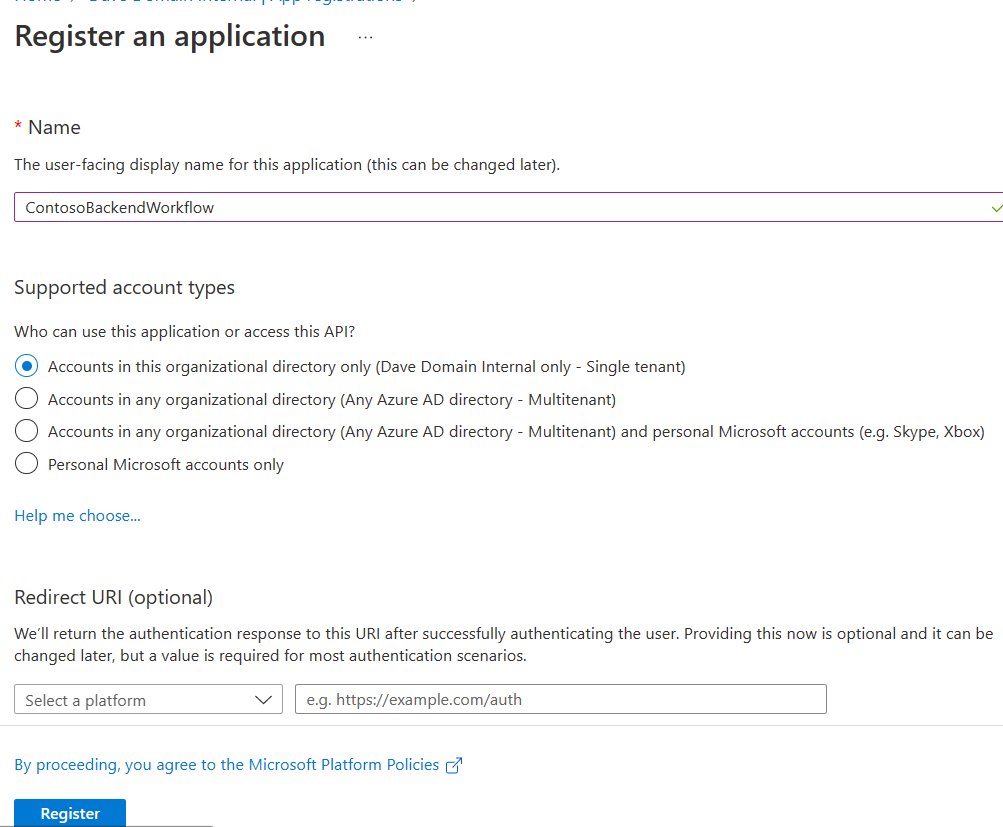
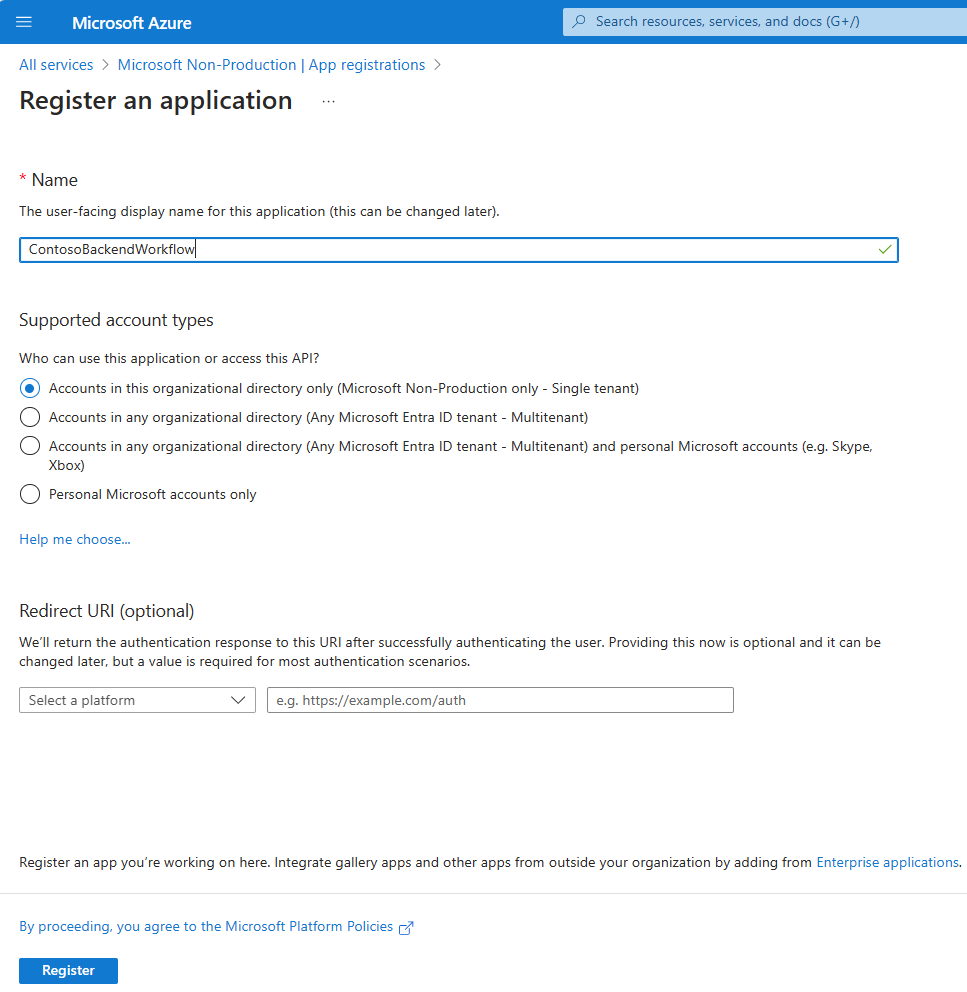
update

diff --git a/Protecting Azure Logic Apps Standard with OAUTH.md b/Protecting Azure Logic Apps Standard with OAUTH.md
@@ -1,77 +1,360 @@
-# Protecting Azure Logic Apps Standard with OAUTH
+# ProteDeep Dive on Protecting Azure Logic Apps Standard with Microsoft Entra ID (OAUTH) and calling from Azure API Management
 
-## Summary
+## Summary 
 
-Protecting services with OAUTH is commonplace across Azure, with out of the box support for services such as Azure Logic Apps, Azure Functions, Azure App Service and Azure API Management.  The Consumption tier of Logic Apps has had OAUTH on HTTP requests for a while now (see [Logic Apps Authorisation](https://learn.microsoft.com/en-us/azure/logic-apps/logic-apps-securing-a-logic-app?tabs=azure-portal#enable-oauth)), and a similar feature is now available in the Standard tier of Logic Apps.
+Protecting services with Microsoft Entra ID (OAUTH) is commonplace across Azure, with out of the box support for services such as Azure Logic Apps, Azure Functions, Azure App Service and Azure API Management.  The Consumption tier of Logic Apps has had OAUTH for HTTP requests for a while now (see [Logic Apps Authorisation](https://learn.microsoft.com/en-us/azure/logic-apps/logic-apps-securing-a-logic-app?tabs=azure-portal#enable-oauth)), and a similar feature is now available in the Standard tier of Logic Apps.
 
-Logic Apps Standard is built on top of Azure Functions, so has access to the Easy Auth feature available to both Azure Functions and Azure App Service. At the time of writing the portal experience isn't avaialble, but can be enabled through the REST API. This blog builds on the article published [here](https://techcommunity.microsoft.com/t5/integrations-on-azure-blog/trigger-workflows-in-standard-logic-apps-with-easy-auth/ba-p/3207378#:~:text=Sometimes%20called%20%22Easy%20Auth%22%2C,workflow%20invocations%20possible%20through%20triggers.)
+Logic Apps Standard is built on top of Azure Functions, so has access to the *Easy Auth* feature available to both Azure Functions and Azure App Service. At the time of writing the portal experience isn't avaialble, but can be enabled through the REST API. This blog builds on the article published [here](https://techcommunity.microsoft.com/t5/integrations-on-azure-blog/trigger-workflows-in-standard-logic-apps-with-easy-auth/ba-p/3207378#:~:text=Sometimes%20called%20%22Easy%20Auth%22%2C,workflow%20invocations%20possible%20through%20triggers.)
 
 ## Scenarios
 
-We will cover two examples where we protect the Logic App workflow with Azure AD and authorise based on audience and role:
+We will cover three ways we can authorise a client from a Logic App:
 
-* Call the Logic App from Postman where we fetch a  token from Azure AD with a client id and secret
-* Call the Logic App from Azure API Management using Managed Identity
+* Authorise based on *audience* contained in the JWT
+* Authorise based on *audience* and the unique identifier (Application ID) of the client contained in the JWT
+* Authorise based on *audience* and *roles* (part of the JWT) assigned to the calling application
 
-We will also show how to check for specific roles within the Logic App, allowing for different workflows to have different authorisation rules within the same Logic App.
+We will talk through these scenarios in detail in later sections. We will also test our Microsoft Entra ID protected Logic App in two ways:
 
-## Azure AD Configuration
+* Call the Logic App from Postman where we fetch a  token from Microsoft Entra ID with a Application ID and secret
+* Call the Logic App from Azure API Management using *Managed Identity*
 
-The security context in Azure AD is configured through an App Registration. There is one App Registration required
-to represent the Logic App workflow (the service), then we will create additional App Registration(s) to represent clients that want to call the workflow. We create roles on the service app registration that can be used to assign to a client (whether managed identity or client id/secret). Easy Auth will be configured to check the audience, then the workflow can make further checks against roles or scopes.
+# Logic App Microsoft Entra ID Configuration
 
-Create Logic App Application Registration
+To enable OAUTH, the first thing we need to do is configure an *Application Registration* in Microsoft Entra ID. The Application Registration is the security context in Microsoft Entra ID that represents the Logic App (the service). We will then create additional App Registrations or Managed Identities to represent clients we will use to obtain access tokens to to call the Logic App workflow.
+
+## Create Logic App Application Registration
+
+As shown in the screenshot below, create a new Application Registration, provide a name but leave everything else as default. In our case, the App Registration is called "ContosoBackendWorkflow":
 
 ![Register Application
 ](Register%20Backend%20App%20Registration%20for%20Logic%20App.png)
 
-Each Application Registration has an Application ID Uri, which by default is a GUID value. It's best to change this to something more meaningful so when validating the JWT it will be clear on the permission being checked. To set the Application ID Uri click on Application ID Uri on the overview page of the Application Registration:
+## Configure Application ID Uri
+Each Application Registration has an *Application ID Uri*, which by default is a GUID value. This value becomes the *audience* in the JWT token. It's best to change this to something more meaningful so when validating the JWT it will be clear on the permission being checked. There are strict rules on the value of *Application ID Uri*, for example if you use a domain it must be verified. See [this link](https://learn.microsoft.com/en-us/entra/identity-platform/security-best-practices-for-app-registration#application-id-uri) for more details. To set the Application ID Uri click on Application ID Uri on the overview page of the Application Registration:
 ![Set Application ID Uri](Application%20ID%20URI.png)
 
-Configure the Application ID Uri to something meaningful, bearing in mind there are strict rules on what this value can be, for example if you use a domain it must be one you own and configured within Azure AD.
+
 
 ![Application ID Uri](Application%20ID%20URI%20Set.png)
 
-## Create Application Roles
 
-We will create a role within the Application Registration, in this case a role to allow a client application to read Contoso orders. First, navigate to Roles, then click on Create App Role, as follows:
+
+## Logic App Configuration
+
+We now need to create a Logic App in the Standard tier, configure Easy Auth, then validate the *audience*.
+
+Although we can run and test Logic Apps locally using Visual Studio Code, we will create the Logic App in Azure. Create a simple HTTP request/response Standard tier Logic App workflow, details on how to do this can be found [here](https://learn.microsoft.com/en-us/azure/logic-apps/create-single-tenant-workflows-azure-portal).
+
+Once the Logic App has been created, configure Easy Auth for the Logic App. At the time of writing there is no support in the Azure Portal for this, but we can use the Azure Management REST API or Bicep. We will be using the REST API.
+
+A sample payload we can use as a template can be found [here](<Logic App OAUTH Config.json>). Edit the file locally, substituing the following values:
+
+| Name | Description |
+| -----| ------------|
+| {{subscription_id}} | subscription identifier where the Logic App is deployed |
+| {{resource_group_name}} | resource group where the Logic App is deployed |
+| {{logic_app_name}} | name of the Logic App where the Easy Auth config is to be applied |
+| {{region}} | region where the Logic App is deployed |
+| {{tenantid}} | tenant id (visible on the overview page of Microsoft Entra ID) where the logic App is deployed |
+| {{issuerUrl}} | https://login.microsoftonline.com/{your tenant id}/v2.0 |
+| {{la_client_id}} | the Application ID of Application Registration created that represents the Logic App|
+| {{la_audience}} | the audience of the Application Registration (i.e., the Application Id URI)
+||
+
+
+Once the file has been saved we need to use the Azure CLI to deploy the changes. Azure CLI can be used in a variety of ways, including from Visual Studio, Visual Studio Code and the Azure Portal CLI. We will use Visual Studio.
+
+Open Visual Studio and start a new Terminal by selecting *Terminal* from the *View* menu.
+
+When the terminal has loaded, login to Azure typing *az login* and enter your Azure credentials. Enter the following command, substituting with your values as described above.
+
+*az rest* is a command that is part of the Azure CLI, that once logged in, will automatically add the authorization header making it easier to call the Azure Management API to manage Azure Services.
+
+```
+az rest --method put --uri https://management.azure.com/subscriptions/{{subscription_id}}/resourcegroups/{{resource_group_name}}/providers/Microsoft.Web/sites/{{logic_app_name}}/config/authsettingsV2?api-version=2021-02-01 --body '@Logic App OAUTH Config.json'
+```
+
+### Validate Security Configuration with PostMan
+
+To show the Logic App is now protected with Microsoft Entra Id, test the workflow in Azure by calling it through PostMan. 
+
+Create a new API request in PostMan called "Call Logic App", paste in the HTTP trigger URL (obtained from the overview page of the Logic App workflow created earlier) and press *Send*.
+
+The call should fail with a security error as we have not yet obtained a token from Microsoft Entra Id to pass to the workflow.
+
+### Test Locally using Microsoft Entra Id with PostMan
+In order to test the workflow, we need to pass a valid token we have obtained from Microsoft Entra ID. We then pass this to the workflow as an HTTP header when we test from PostMan.
+
+Create another App Registration called "Contoso Sales Client". We will use this App Registration represent a test client to call the workflow. Create as single tenant and **make a note of the Application (client) ID on the Overview page as it will be required later**. "Application ID" and "Application ID" are the same thing and can be used interchangeably.
+
+Click the *Certificates & Secrets* link, and click *New Client Secret* where a secret can be created. **Make a note of the secret as it is only displayed once and will be required later**.
+
+![Client Secret](<Client - secret.png>)
+
+### Test Obtaining a Token with PostMan
+
+To obtain a token from PostMan, create a new API Request based on an HTTP POST called "Get Logic App Token", and set the following in an *x-www-form-urlencoded* body: 
+
+Note, Postman has a feature called *Environments*, which allow variables to be configured and referenced in API requests. Variables are referenced by using double brace notation, for example {{tenant_id}}. Either create a new environment and configure the values below, or enter the real values into the API call. It's generally best practice to use environments as they can be re-used across more than one API call.
+
+Postman has a feature to automate fetching a token, available in the Authorization tab. We are not using that here, rather we are setting the values in the HTTP request to demonstrate the mechanics of the authorisation request.
+
+- Set the URL to *https://login.microsoftonline.com/{{tenantid}}/oauth2/v2.0/token* by changing **{{tenantid}}** to the ID of your tenant. This can be found by navigating to Microsoft Entra Id and clicking the **Overview** page and copying **Tenant ID**:
+
+- client_id - this is the Application ID copied from the Test Client Application Registration just created
+- client_secret - this is the secret created earlier from the Test Client Application Registration just created
+- grant_type - this is set to *client_credentials* and represents the OAUTH2 flow for one system talking to another (i.e., no user present) 
+- scope - this is Application ID URI created in the Logic App App Registration with **/.default** appended. For example, https://yourtenant.onmicrosoft.com/contoso/app/backend/.default
+
+For example:
+
+![Postman Get Token](<Postman - Get Token.png>)
+
+
+
+Click **Send** and the token should be returned:
+
+The token is encoded, so the easiest way to view it is to open a browser and navigate to [https://jwt.ms](https://jwt.ms), then paste the token content (i.e., the access_token part of the response) into the website. The token should then be decoded showing all the claims in the JWT. Note the **audience** which is the value configured against the Logic App App Registration (ContosoBackendWorkflow). Also note the **appid** which is the Application ID of the *client* App Registration.
+
+The *audience* value in the JWT will be checked at runtime by the EasyAuth configuration we created earlier. Only if the client has a token with this specific audience will the request be allowed.
+
+### Test the Logic App from PostMan using a Microsoft Entra Id Token
+
+The next step is to test Logic App workflow by passing a valid JWT token to the Logic App. We can do this from PostMan in one of two ways:
+- copy the access token returned above and paste it into the Authorization HTTP header
+- update the PostMan call where the token is retrieved to automatically update a variable to negate the need to copy and paste
+
+We will use the second option. Navigate to the PostMan API request called "Get Logic App Token", then click on the *Tests* tab and enter the following code:
+
+```
+    var json = JSON.parse(responseBody);
+    postman.setEnvironmentVariable("la_bearer", "Bearer " + json.access_token);
+```
+This will update a variable called *la_bearer* with the access token allowing us to then reference it when calling the Logic App. The token has a lifetime, so after a period of time it will expire and a new token will need to be retrieved.
+
+Next, navigate to the API request called "Call Logic App", then to *Headers* and add a header called "Authorization" with a value of "{{la_bearer}}", for example:
+
+![Call Logic App](<Postman - Call Logic App.png>)
+
+Click *Send* and the Logic App should return with a 200 OK response, indicating the token is valid and has the correct audience. If the call fails, check the token in https://jwt.ms to ensure the token is present. Also make sure the Logic App Easy Auth configuration is checking for the same audience.
+
+## How to Authorise Clients
+As mentioned at the start, there are three ways we can authorise clients:
+
+* Authorise based on *audience* contained in the JWT
+* Authorise based on *audience* and the unique identifier (Application ID) of the client contained in the JWT
+* Authorise based on *audience* and *roles* (part of the JWT) assigned to the calling application
+
+So far, we have implemented the first option - to authorise based on the *audience*. You may be wondering what's to stop *anyone* from creating a JWT token such as the one returned from Microsoft Entra Id and just passing it to the Logic App. When a token is returned from Microsoft Entra Id it is *digitally signed* by Microsoft Entra Id using a private certificate that only Microsoft Entra Id has. The first step the authorisation framework takes is to validate the signature of the JWT token using the Microsoft Entra Id public key. This allows the runtime to verify the token hasn't been tampered with or created with a different key.
+
+### Authorise based on the unique identifier (Application ID)
+By default however, *any* client within the tenant is able to request a token from Microsoft Entra ID. While this may be the desired behaviour, a more likely scenario is to only allow *specific* clients to call the Logic App.
+
+We can update the Logic App configuration to specify a list of Application ID values so we only allow those applications access to the Logic App. There is a second json template, [Client Auth](<Logic App OAUTH Config_client_auth.json>) which contains a section called *defaultAuthorizationPolicy* which has two json objects, *allowedPrincipals* and *allowedApplications*. Both allow restriction of the calling client, either by using the Application ID or the object id, and both can be an array to restrict multiple clients. If the *allowedPrincipals* element is present, this must be used and will override anything in the *allowedApplications* object, so use one or the other, not both. In our case we will add the Application Id used to test from PostMan.
+
+```
+    "defaultAuthorizationPolicy": {
+        "allowedPrincipals": {
+            "identities": [
+                "{object id to restrict}",
+                "{object id to restrict}"
+                ]
+        },
+        "allowedApplications": [
+            "{Application ID to restrict}",
+            "{Application ID to restrict}"
+        ]
+    }
+```
+
+
+Navigate to the Postman API Request called "Get Logic App Token", copy the client_id value and paste it into the *allowedApplications* array. Remove the *allowedPrincipals* object entirely, or just the *identities* section.
+
+The configuration should look similar to the example below:
+```
+    "defaultAuthorizationPolicy": {
+        "allowedApplications": [
+            "f3280e6a-6625-4380-2764-ad3301810ae4",
+        ]
+    }
+```
+Update the Logic App Config using the az rest command and test the Logic App.
+
+# Authorise Based on Roles
+While authorising based on the Application ID of the calling application provides fine grained control, it does mean however that the Logic App configuration must be updated for each new client that wants to call the Logic App.
+
+Another option that avoids the need to authorise specific clients is to use *roles*. With roles, we can create a role (or series of roles) on the Logic App Application Registration, then assign roles to clients. The role will only be contained in the JWT token if the client has specifically been granted access. We can then disable the feature that allows *any* client within the tenant to obtain a token. To do this, navigate to the Logic App Application Registration (ContosoBackendWorkflow) and click on *Managed Application in Local Directory*. Once the Enterprise Application is visible, click on *Properties* and change *Assignment Required* to *Yes* as follows:
+
+![Assignment Required](<Enterprise Application - Assignment required.png>)
+
+Once Assignment Required has been set to Yes, our Logic App will no longer succeed. This is because we now need to assign a role to the client. Doing this will set the audience and role in the JWT token.
+
+## Creating Roles
+We will create a role within the Application Registration, in this case a role to allow a client application to read Contoso orders. First, navigate to *Roles*, then click *Create App Role*, as follows:
 ![](Create%20Application%20Role.png)
 
 
-The following page is displayed allowing a role to be created. In our case we are creating a role called Read Contoso Orders:
+The following page is displayed allowing a role to be created. In our case we are creating a role called *Read Contoso Orders*:
 ![Create Role](Create%20Role.png)
 
 ## Create Client Application
 
-Next, we need to create a client Application Registration then assign permission for this application to have access to the Read Contoso Orders role.
-
-Within the Consto Client Application Registration, navigate to API Permissions, then click "Add a Permission" where the following screen is displayed:
+Next, we need to assign permission for the client application to have access to the Read Contoso Orders role. The client application could be an App Registration with client id and secret (to test from Postman) or Managed Identity assigned to an Azure Service. We will test from Postman first, so navigate to the "Contoso Sales Client" App Registration and click *API Permissions*, then click "Add a Permission" where the following screen is displayed:
 
 ![Request Permissions](Request%20API%20Permissions.png)
 
-Within "APIs my organization uses", enter the name of the backend Application Registration, in this case ContosoBackendWorkflow. When it appears in the search results click it, which will display Application Permissions sceen. Select Application Permissions, then select the ReadContosoOrders role and click "Add Permissions", as follows:
+Within "APIs my organization uses", enter the name of the Logic App Application Registration, in this case ContosoBackendWorkflow. Select ContosoBackendWorkflow from the search results to display the Application Permissions screen. Select Application Permissions, then select the *ReadContosoOrders* role and click *Add Permissions*, as follows:
 ![Assign Backend Permissions](Assign%20backend%20role%20permissions.png)
 
 You should see the permission listed against the Contoso Client Application Registration:
 ![View Application Permissions](Contoso%20Client%20Permissions%20View.png)
 
-Although the permission is listed, permission has not yet been granted. To do this, login as an Azure AD Administrator and click "Grant admin consent". For automated scenarios, or where Azure AD Admin is not appropriate, see [here](https://learn.microsoft.com/en-us/graph/permissions-grant-via-msgraph?pivots=grant-application-permissions&tabs=http) for details on how to automate this without Admin consent. Once permission has been granted, there should be a green tick to indicate the permission:
+Although the permission is listed, permission has not yet been granted. To do this, login as an Microsoft Entra ID Administrator and click "Grant admin consent". For automated scenarios, or where Microsoft Entra ID Admin is not appropriate, see [here](https://learn.microsoft.com/en-us/graph/permissions-grant-via-msgraph?pivots=grant-application-permissions&tabs=http) for details on how to automate this without full Admin consent. Once permission has been granted, there should be a green tick:
 
 ![Permission Granted](Client%20Permission%20Granted.png)
 
-## Logic App Configuration
+## Test from PostMan
+The final step is to request a token and verify the audience and role have been set correctly in the JWT token. In PostMan, navigate to the "Get Logic Apps Token" API Request and press *Send*. If the request is successful (which it only will be if the permission has been granted), copy the access token and view in https://jwt.ms. There should be an entry called *roles* with an entry for the role assigned above.
 
-We now need to create a Logic App in the Standard tier, configure Easy Auth, then validate the Audience and role within the JWT the client will send in the Authorisation header.
+## Fine Grained Authorisation from Logic Apps Workflows
+A further step we can take is to check the role within the Logic App Workflow itself. This allows for fine grained authorisation, for example two roles could be created, one to read orders and one to create orders. Two workflows in the same Logic App could then check for a specific role, which can easily be achieved using expressions in Logic Apps. For example, in the following example we are using a *Compose* action to retrieve the role, then a *Condition* to check if the role was present or not:
 
-To create a Standard tier Logic App workflow with an HTTP trigger. Details on how to do this can be found [here](https://learn.microsoft.com/en-us/azure/logic-apps/create-single-tenant-workflows-azure-portal).
+![Check Claims](<Logic Apps - Check Claims.png>)
 
-Once the Logic App has been created, configure Easy Auth for the Logic App. At the time of writing there is no support in the Azure Portal for this, but we can use the REST API. 
+The workflow json snippet is as follows:
+```
+    "Check_Claims": {
+        "inputs": {
+            "from": "@json(base64ToString(triggerOutputs()['headers']['X-MS-CLIENT-PRINCIPAL']))?['claims']",
+            "where": "@and(equals(item()?['typ'], 'roles'),equals(item()?['val'], 'sales.write'))"
+        },
+        "runAfter": {
+            "Response": [
+                "SUCCEEDED"
+            ]
+        },
+        "type": "Query"
+    },
+    "Authorised": {
+        "actions": {
+            "Success": {
+                "inputs": {
+                    "statusCode": 200
+                },
+                "kind": "http",
+                "type": "Response"
+            }
+        },
+        "else": {
+            "actions": {
+                "Unauthorised": {
+                    "inputs": {
+                        "statusCode": 401
+                    },
+                    "kind": "http",
+                    "type": "Response"
+                }
+            }
+        },
+        "expression": {
+            "and": [
+                {
+                    "equals": [
+                        "@length(body('Check_Claims'))",
+                        1
+                    ]
+                }
+            ]
+        },
+        "runAfter": {
+            "Check_Claims": [
+                "Succeeded"
+            ]
+        },
+        "type": "If"
+    }
+```
+# Calling Logic Apps from Azure API Management
+So far, we have only tested calling the Logic App from PostMan, but calling from another service is very straightforward. To call from Azure API Management for example, first we need to add Managed Identity (either System or User Assigned), then create an API to call the Logic App workflow created above. 
 
-[](Azure%20AD%20Auth%20Logic%20App%20Config%20id.png)
-The following values need to be set, highlighted  below:
+### Configure Managed Identity in Azure API Management
+Managed Identity settings in Azure API Mnagement can be found by navigating to *Security* then *Managed Identities* where System and User Assigned Managed Identities can be configured. Here is an example of a system assigned managed identity:
 
-issuerUrl - https://login.microsoftonline.com/{your tenant id}/v2.0
-
-clientId - the client id of the first Application Registration we created (this can be retrieved from the overview page of the App Registration)
+![System Assigned](<APIM System Assigned MI.png>)
 
 
+### Configure API Management Policy for Managed Identity
+The only additional step we need to do is to add a *policy* to the API to fetch a token using the configured managed identity. For example the following is using System Assigned Managed Identity:
+
+```
+<policies>
+    <inbound>
+        <base />
+        <authentication-managed-identity resource="https://dptestadi.com/contoso/app/backend" />
+    </inbound>
+    <backend>
+        <base />
+    </backend>
+    <outbound>
+        <base />
+    </outbound>
+    <on-error>
+        <base />
+    </on-error>
+</policies>
+```
+
+To user User Assigned Managed Identity, navigate to the User Assigned Managed Identity, copy the Application ID and use the following policy:
+```
+<policies>
+    <inbound>
+        <base />
+        <authentication-managed-identity resource="https://dptestadi.com/contoso/app/backend" client-id="your managed identity Client ID/Application ID" />
+    </inbound>
+    <backend>
+        <base />
+    </backend>
+    <outbound>
+        <base />
+    </outbound>
+    <on-error>
+        <base />
+    </on-error>
+</policies>
+```
+
+Azure API Management will manage fetching a token using managed identity without the need to manage Client ID and secret, token expiry etc.
+
+## Authorise an API Management Request From Logic Apps using Audience and Application ID
+When making a call from API Management to our Microsoft Entra ID protected Logic App, we authorise using the same techniques already discussed by configuring *Managed Identity* in API Management. Once this has been done, we can either check for the Application ID of the Managed Identity through configuration of Easy Auth, or we can use the *roles* approach and simply assign a role to the Managed Identity. Only if the role is assigned with the request be authorised.
+
+### System Assigned Managed Identity
+For User Assigned Managed Identity, navigate to *Identities* in API Management and view the *System Assigned* tab. The Object ID displayed is *not* the Application ID, but the underlying object identifier of the Managed Identity. The object id can be used, but would need to be included in the *allowedPrincipals* section of the EasyAuth configuration. To find the Application ID instead, copy the Object ID and search for it within Microsoft Entra ID. Click on the *Enterprise Application* in the search results that is the same name as the Azure API Management instance. From here, the Application ID is visible where it can then be used in the *allowedApplications* section of the Easy Auth Configuration.
+
+### User Assigned Managed Identity
+For User Assigned Managed Identity, navigate to *Identities* in API Management and view the *User Assigned* tab. There may be more than one managed identity displayed - click the identity of interest which will navigate to the identity configuration. From here, note the Application ID where it can then be used in the *allowedApplications* section of the Easy Auth Configuration.
+
+### Authorise API Management using Roles
+To grant roles to the Azure API Management Managed Identity, we need to find the Application ID, then grant permission using either Powershell or the REST API. It is not possible to do this through the Application Registration user interface as discussed earlier.
+
+To grant permission using PowerShell, we can use the following script (bear in mind the comments about permissions required to grant Application permissions, discussed above):
+
+```
+# App Registration for Logic App
+$serviceAppName="ContosoBackendWorkflow"
+# role to assign
+$serviceAppRoleName="Create Contoso Orders"
+
+# APIM Service Principal (managed identity object id)
+$apimManagedIdentityObjectId = "f88c2d51..."
+$serviceSP = Get-AzureADServicePrincipal -Filter "displayName eq '$serviceAppName'"
+
+# Find the Service Application Role
+$appRole = $serviceSP.appRoles | Where-Object { $_.DisplayName -eq $serviceAppRoleName }
+
+# Now apply the permissions to the client
+New-AzureADServiceAppRoleAssignment -ObjectId $apimManagedIdentityObjectId -PrincipalId $apimManagedIdentityObjectId -Id $appRole.Id -ResourceId $serviceSP.ObjectId
+
+```
+Now, when API Management requests a token, the role will be included in the JWT token which can be checked by the Logic App Workflow.
